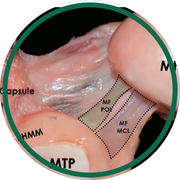
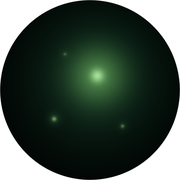
🪲✨ 홈페이지 마크 교체 — 검정 원 + 반딧불 형광 그린 글로우 (20260611-1740)

diff --git a/index.html b/index.html
@@ -928,7 +928,7 @@ body{font-family:'Pretendard','Malgun Gothic','Apple SD Gothic Neo','Segoe UI',s
 
 <!-- ===== 자동 업데이트 체크 ===== -->
 <script>
-const APP_VERSION='20260611-1731';
+const APP_VERSION='20260611-1740';
 /* 🔁 캐시 강제 우회 새로고침 — iOS 사파리는 location.reload(true)를 무시하고 캐시를 다시 줘서
    새 버전이 영영 적용 안 되는 일이 있음. URL에 새 쿼리(?v=버전)를 붙여 강제로 새로 받게 함. */
 function _hardReload(v){try{const base=location.origin+location.pathname;location.replace(base+'?v='+encodeURIComponent(v||(''+Date.now())));}catch(e){location.reload();}}
